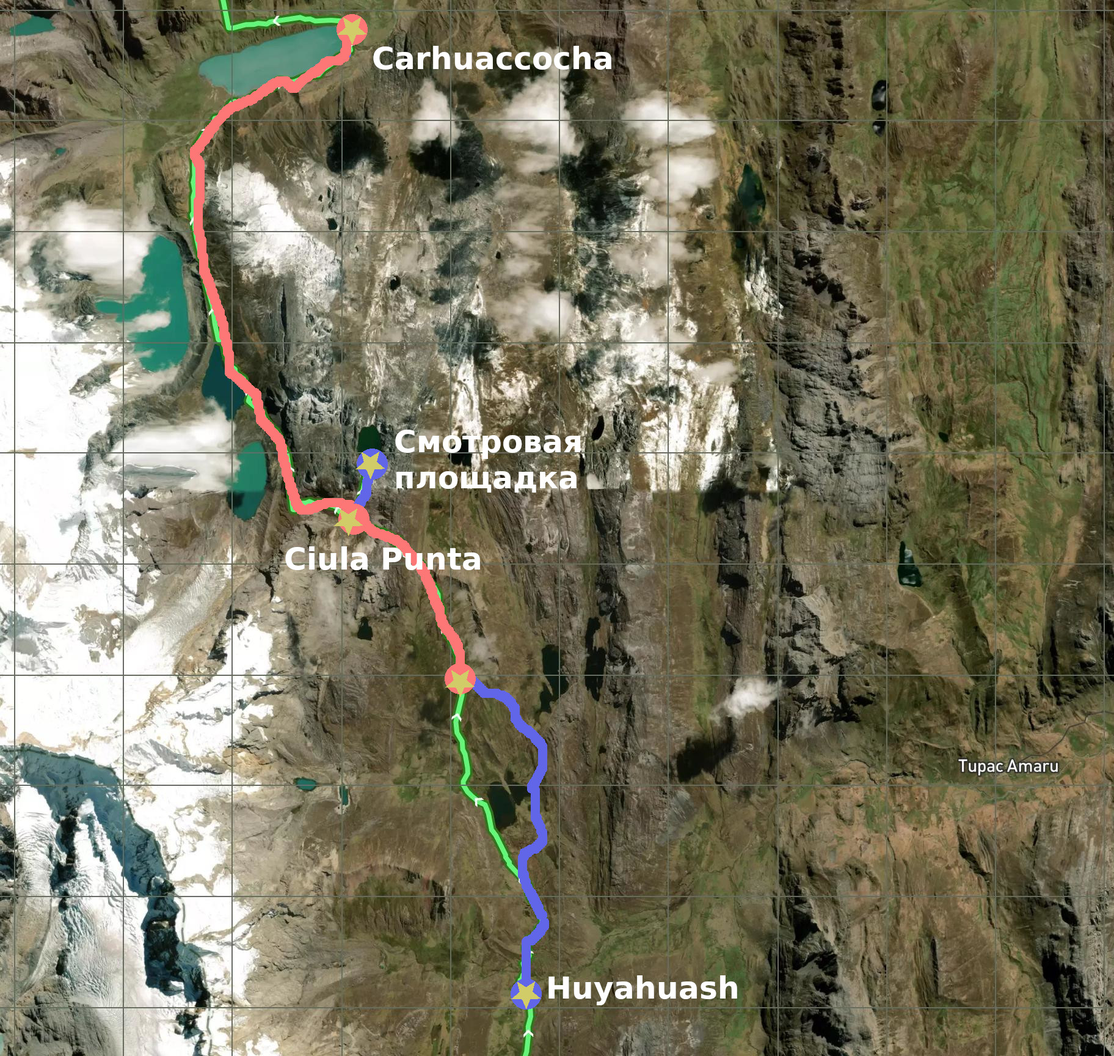
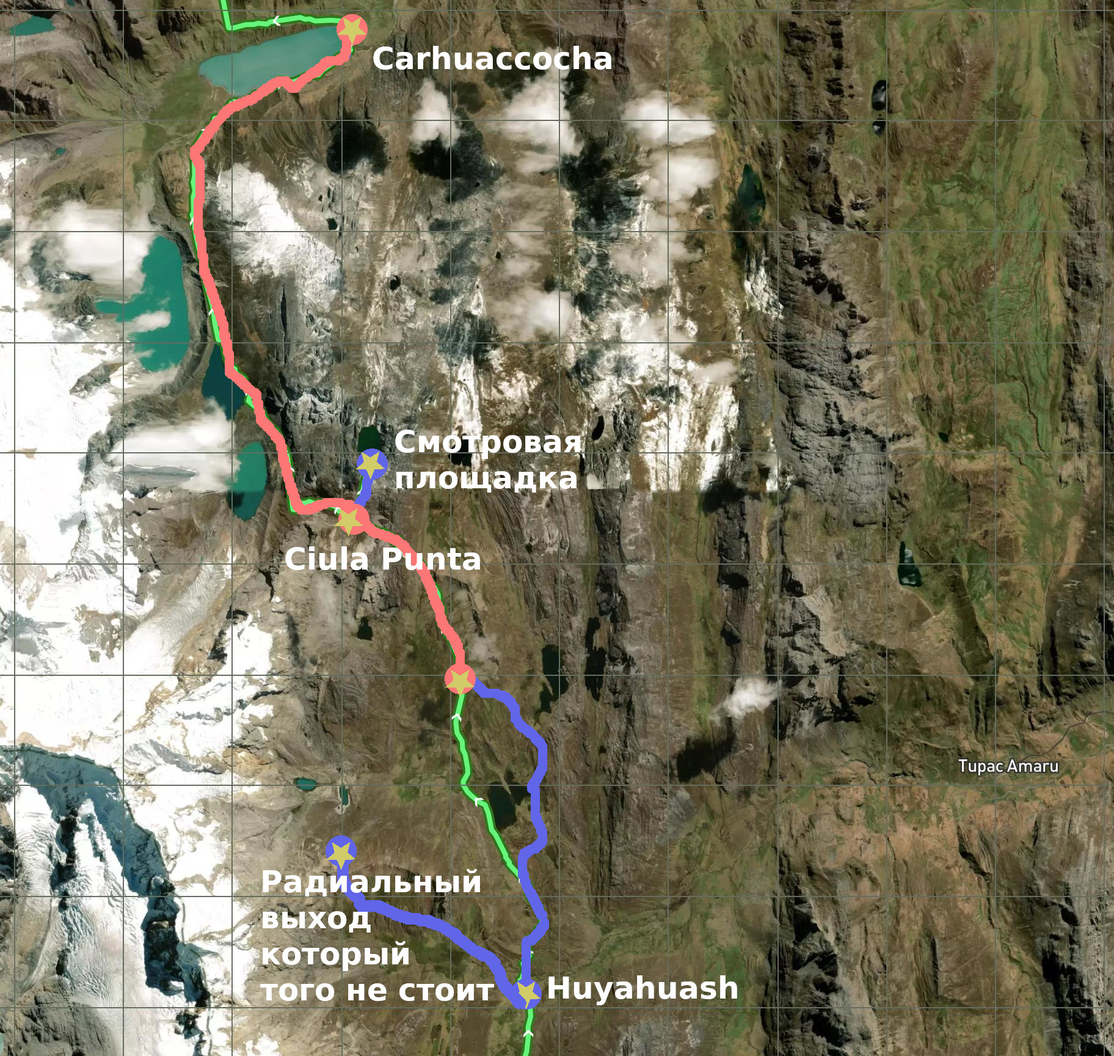
huyahuash done

Changed region(s): [[0.2188, 0.7812, 0.4688, 0.9688]]

diff --git a/_posts/ru/2023-09-01-huyahuash.md b/_posts/ru/2023-09-01-huyahuash.md
@@ -8,19 +8,20 @@ lang: ru
 ref: 2023-09-01-huyahuash
 ---
 
-Итак, мы в Перу и у нас есть ***300$***. Можно купить однодневную экскурсию на Мачу-Пикчу и сделать красивое фото. А можно за тот же ценник сходить в многодневный поход по местах, красота которых на всю жизнь оставит след в вашем сознании. Я уважаю вкусы людей и понимаю тех, кому кровь из носа нужна фотография на фоне живописного города инков. Но если вас тянет к приключениям, вам нравится ходить ногами и хочется получить уникальный опыт пребывания в этой невероятной стране, то эта статья для вас!
+Итак, мы в Перу и у нас есть ***300$***. Что сделать с этими деньгами? Можно купить однодневную экскурсию на Мачу-Пикчу и заиметь красивое фото. А можно за тот же ценник сходить в многодневный поход по местах, красота которых останеться с вами на всю жизнь. Я уважаю вкусы людей и понимаю тех, кому кровь из носа нужна фотография на фоне живописного города инков. Но если вас тянет к приключениям, вам нравится ходить ногами и хочется получить уникальный опыт пребывания в Перу, то эта статья для вас!
 
-Сегодня я расскажу о ***Huyahuash Cordillera***. Это красивейший горный хребет и одноименный хайк, который по-моему мнению, является одним из красивейщих хайков на Земле. Заявка серьезная, но когда вы увидете фото, то все вопросы отпадут. Итак, продолжительность трека варьируется от *8 до 12 дней*, в течение которых преодолевается *135 км* пути и около *12и перевалов*, все это происходит на высоте более *4500 метров* над уровнем моря.
+Сегодня я расскажу о ***Huyahuash Cordillera***. Это красивейший горный хребет и одноименный хайк, который, по-моему мнению, является одним из красивейщих хайков на Земле. Заявка серьезная, но фото по ходу статьи откинут все вопросы. Продолжительность трека варьируется от *8 до 12 дней*, в течение которых преодолевается *135 км* пути и около *12и перевалов*, все это происходит на высоте более *4500 метров* над уровнем моря.
 
-Я планировал совершить этот *11и дневный* поход в одиночку и даже придумал очень пафосное название для будущей статьи. Дележка шкуры неубитого медведя в конечном итоге привела меня... к гиду. Поход я совершил в составе пусть и маленькой, но все же коммерческой группы. Зачем тогда я это пишу, спросите вы? Несмотря на то, что это действительно один из самых красивейших треков в мире, ***вы, скорее всего, о нем ничего не слышали***. 
-В интернете об этом прекрасном месте полно эмоциональных статей на разных мировых языках, но не на русском. Это нужно срочно исправлять!
+Я планировал пройти *11 дней по кардильерам* в одиночку и даже придумал очень пафосное название для будущей статьи. Дележка шкуры неубитого медведя в конечном итоге привела меня... к гиду. Да, поход я совершил в составе пусть и маленькой, но все же коммерческой группы. Зачем тогда я это пишу, спросите вы? *Несмотря на то, что это действительно один из самых красивейших треков в мире,* ***вы, скорее всего, о нем ничего не слышали***. 
+В интернете об этом маршруте полно эмоциональных статей на разных мировых языках, но не на русском. Это нужно срочно исправлять!
 
-Нижу я постараюсь структурированно дать информацию и заразить вас желанием посетить это магической красоты место. <s>И отбить желание смотреть Мачу-Пикчу</s> 
+Нижу я постараюсь структурированно дать информацию и заразить вас желанием посетить это магической красоты место <s>и заодно отбить желание смотреть Мачу-Пикчу</s> 
 
 {% 
   include image.html 
   file="1"  
   ratio="1.33"
+  caption="смотрю на лагуну Jurau c перевала Santa Rosa (5060м)"
 %}
 
 
@@ -31,35 +32,35 @@ ref: 2023-09-01-huyahuash
 
 Вот о чем действительно стоит задуматься, так это о высотной болезни, травмах и физической подготовке. *90 процентов* трека проходит на высоте более *4000 метров*, каждый день необходимо преодолевать перевалы, высота которых может достигать *5000 метров*, и путь до которых может быть достаточно крутым. Если в ваших планах идти без гида, то я ***настоятельно рекомендую*** взять напарника, который в случае травмы или прогрессирующей горной болезни сможет оказать помощь. Никто не застрахован от отека легких и прочих фатальных высотных болячек.  
 
-Также сложность похода в составе коммерческой группы значительно снижена, так как отпадает необходимость в готовке и носке тяжелого рюкзака, который, к слову, за вас будут нести мулы. По моим наблюдениям *90 процентов* туристов составляют коммерческие группы. Если у вас нет опыта многодневных походов, то я очень рекомендую идти с гидом. 
+В случае похода в составе коммерческой группы сложность значительно снижена, так как отпадает необходимость в готовке еды, носке тяжелого рюкзака, который, к слову, за вас будут нести мулы. По моим наблюдениям *90 процентов* туристов составляют коммерческие группы. Если у вас нет опыта многодневных походов, то я ***очень рекомендую*** идти с гидом. 
 
 # Сколько это стоит?
-Зависит от количества дней и количества участников. ***8и дневный поход*** в группе из ***10 человек*** обойдется примерно в <span class="rate" data-sym="PEN" data-value="1200"/>. В стоимость обычно включены услуги мулов, еда, палатка, спальник, повар. Все кроме личного снаряжения, которое я советую привозить с собой, так как в Перу оно дорогое и специализированные магазины довольно трудно найти. 
+Стоимость зависит от количества дней и количества участников. ***8и дневный поход*** в группе из ***10 человек*** обойдется примерно в <span class="rate" data-sym="PEN" data-value="1200"/>. В стоимость обычно включены услуги мулов, еда, палатка, спальник, повар. Все кроме личного снаряжения, которое я советую привозить с собой, так как в Перу оно дорогое и специализированные магазины довольно трудно найти. 
 
 Цена тура обратно пропорциональна количеству человек в группе. В моем случае группа состояла из ***3 человек***, а программа состояла из ***11 дней***, в которые входило альпинистское восхождение на пятитысячник. Это стоило <span class="rate" data-sym="PEN" data-value="2900"/>. 
 
-Скорее всего, в стоимость похода не будет включена плата за проход по национальному парку, которая разделена между местными комьюнити коренных народов и взымается каждый день, когда приходите на ночевку в кемпинг. В общей сложности плата составляет примерно <span class="rate" data-sym="PEN" data-value="220"/>. Эти деньги идут в том числе и на поддержание кемпингов в хорошем состоянии и обеспечение безопасности. В большинстве лагерей имеются фаянсовые туалеты. Непозволительная роскошь! 
+Скорее всего, в стоимость тура не будет включена плата за проход по национальному парку, территория которого поделена между местными комьюнити коренных народов. Плата взымается каждый день, когда приходите на ночевку в кемпинг. В общей сложности плата составляет примерно <span class="rate" data-sym="PEN" data-value="220"/>. Эти деньги идут в том числе и на поддержание чистоты и безопасности. В некоторых лагерях даже имеются фаянсовые туалеты. Сразу видно, за что платим! 
 
 <p class="alert warning" style="font-size: 14px; font-style: italic">
 Я приезжал лично в Huaraz и на месте обсуждал цены, вероятно, они будут отличаться от онлайн предложений. Если удастся найти группу, которая отправляется на следующий день, и от вашего участия цена за тур для других участников остается неизменной, то можете рассчитывать на очень хорошую скидку. Так произошло в моем случае.
 </p>
 
 # Насколько сложно?
-Средней физической подготовки будет достаточно для *8и дневного тура* с гидом при грамотной акклиматизации. А именно, нужно пару дней побыть в *Huaraz* и сходить в однодневний тур к какой-нибудь высокогорной лагуне. В случае проблем со здоровьем во время похода вас посадят на мула или коня и в течения 3 часов спустят до ближайщего поселка, поэтому насчет этого переживать не стоит.
+Средней физической подготовки будет достаточно для *8и дневного тура* с гидом при грамотной акклиматизации, а именно, нужно пару дней побыть в *Huaraz* и сходить в однодневний тур к какой-нибудь высокогорной лагуне. Но сильно переживать не стоит. Во время похода, в случае проблем со здоровьем, вас посадят на какое-нибудь животное и со скоростью света (плюс минус 3 часа) спустят до ближайщего поселка.
 
-В случае одиночного восхождения обязательна очень хорошая физическая подготовка и опыт нахождения в высокогорье. 
+В случае одиночного восхождения обязательна великолепная физическая подготовка и опыт нахождения в высокогорье, то есть, в отличии от тура, это подходит далеко не для каждого.  
 
 # Когда идти, какая погода
 Сезон длится с ***мая по сентябрь***. Мой поход проходил в середине июля, когда погода была максимально ясная и безоблачная, а количество осадков минимально. В другие месяцы, судя по форумам, есть вероятность попасть в непогоду, особенно это справедливо для начала и конца сезона. 
 
 По моему опыту по-настоящему прохладными были только утро и вечер, когда солнце либо скрылось, либо только начинало выходить из-за горизонта и плавить накопившийся за ночь иний.
 
-Взможно, мне повезло с погодой, но всегда я чувствовал себя комфортно в термоббелье и дешевых флисовых штанах и рубашке. Мембранный слой я почти не доставал. Другие ребята (мексиканец и испанка) воспринимали холод острее и надевали на себя все, что у них имелось. В целом, если идете с коммерческой группой, то нужды в высокотехнологичной (дорогой и легкой) одежде нет. Мулам все равно, несут ли они новенькие mammut'ы или китайские штаны из декатлона. Но здесь я могу ошибаться и лучше проконсультироваться с гидами. Вот о чем я точно советую позаботиться, так это о хороших треккинговых ботинках. На них ***экономить не стоит!***
+Взможно, мне повезло с погодой, но большую часть времени я чувствовал себя комфортно в термоббелье и дешевых флисовых штанах и рубашке. Мембранный слой я досталавл только пару раз. Другие ребята (мексиканец и испанка) воспринимали холод острее и надевали на себя все, что у них имелось. В целом, если идете с коммерческой группой, то нужды в высокотехнологичной (дорогой и легкой) одежде нет. Мулам все равно, несут они новенькие mammut'ы или китайские штаны из декатлона. Насчет погоды я могу ошибаться и лучше проконсультироваться с гидами. Вот о чем я точно советую позаботиться, так это о хороших треккинговых ботинках. На них ***экономить не стоит!***
 
 # *Huaraz* и акклиматизация
 Ближайщим крупным городом на пути в *Huyahuash* является *Huaraz*. Сам город и его окрестности без преувеличения являются настоящей меккой для людей, любящих походы и активный отдых. В округе множество маршрутов на любой вкус: [однодневные выходы](https://travelmademedoit.com/laguna-radian-mullaca-carhuac-ahuac-four-lagunas-trek-huaraz/) к горным лагунам, *3-4 дневные походы* в *Cardillera Blanca* или, как в нашем случае, 11 дневный *Huyahuash*! 
 
-Я советую приезжать в город за несколько дней до начала похода, чтобы ваш организм начал привыкать к высоте. *Huaraz* расположен на высоте 3000. Также я настоятельно рекомендую сходить в однодневный поход к одному из множеств лагун. Я очень рекомендую [4 lagunas trek](https://travelmademedoit.com/laguna-radian-mullaca-carhuac-ahuac-four-lagunas-trek-huaraz/), он правда очень изнурительный и может отбить всякое желание других походов. Но зато он невероятно красивый. [Здесь](https://www.alltrails.com/explore/recording/evening-hike-at-laguna-mullaca-a600bd1?p=-1&sh=qe1tfy) можно посмотрить мои логи. Гораздо менее изнурительной альтернативой является очень популярный *[Lagoon 69](https://travelmademedoit.com/laguna-69-peru/)*. Даже не спрашивайте меня, откуда такое название!
+Я советую приезжать в город за несколько дней до начала похода, чтобы ваш организм начал привыкать к высоте, ведь *Huaraz* расположен на высоте *3000*. Также я настоятельно рекомендую сходить в однодневный поход к одному из множеств лагун. Я очень рекомендую [***4 lagunas trek***](https://travelmademedoit.com/laguna-radian-mullaca-carhuac-ahuac-four-lagunas-trek-huaraz/), он правда очень изнурительный и может отбить желание не только идти в другой поход, но и вообще двигаться. Зато он красивый и если вы его пройдете, то ***Huyahuash*** уж точно будет по плечу! [Здесь](https://www.alltrails.com/explore/recording/evening-hike-at-laguna-mullaca-a600bd1?p=-1&sh=qe1tfy) можно посмотрить мои логи. Гораздо менее изнурительной альтернативой является очень популярный ***[Lagoon 69](https://travelmademedoit.com/laguna-69-peru/)***. Даже не спрашивайте, откуда такое название!
 
 {% 
   include image.html 
@@ -74,14 +75,16 @@ ref: 2023-09-01-huyahuash
 Ну ладно, хватит про подготовку, переходим к десерту, а именно самомму походу
 
 # Обозначения
-Ниже я по дням описываю трек, прилагая колометраж, набор высоты, а также ключевые названия перевалов, кемпингов. В дополнение к этому я прилагаю ссылку на фото с картой. За основу я взял [этот трек из AllTrails](https://www.alltrails.com/en-gb/trail/peru/ancash/cordillera-huayhuash?p=56258220&sh=qe1tfy) (ссылка, возможно, работает только с vpn). На карте зеленым цветом размечен трек AllTrails, синим обозначены радиальные выходы или мой маршрут, если он отличался. Все это для того, чтобы вы могли лучше ориентироваться. 
+Ниже я по дням описываю трек, прилагая колометраж, набор высоты, а также ключевые названия перевалов, кемпингов. В дополнение к этому я прилагаю ссылки на фото с картами. За основу я взял [эту карту из AllTrails](https://www.alltrails.com/en-gb/trail/peru/ancash/cordillera-huayhuash?p=56258220&sh=qe1tfy) (ссылка, возможно, работает только с vpn). На моих картах зеленым цветом размечен трек AllTrails, красным обозначен мой маршрут, синим обозначены радиальные выходы или часть маршрута, которая отличается от AllTrails. Надеюсь, это поможет ориентироваться. 
 
 <br/>
 
 # День 1: Из *Huaraz* в *Quartelhuain* 
-Если вы купили тур, то на транспорте ваc довезут прямо до стартовой точки, лагеря *Quartelhuain*, весь путь до которого займет около 5 часов от *Huaraz*. Ни о чем волноваться не нужно. 
+В составе тура вас на транспорте довезут прямо до стартовой точки, лагеря *Quartelhuain*, весь путь до которого займет около 5 часов от *Huaraz*. Ни о чем волноваться не нужно. 
 
 Если едете без гида, то сначала покупаем билет до *Chiquian* на автобусную станции [*Transporte El Rapido*](https://www.google.com/maps/place/Transportes+El+Rapido/@-9.530537,-77.5347065,17z/data=!3m1!4b1!4m6!3m5!1s0x91a90d10a16b6897:0x62d756f6e26f3514!8m2!3d-9.5305423!4d-77.5321316!16s%2Fg%2F11byv8vrpc?entry=ttu). в *Сhiquian* берем автобус до *Pocpa* в [Turismo Nazario](https://www.google.com/maps/place/Transportes+Nazario/@-10.1524544,-77.1652559,16z/data=!4m10!1m2!2m1!1sTurismo+Nazario+Chiquian!3m6!1s0x91a83371995d265f:0xdb3cc8bb4b4eed0a!8m2!3d-10.1524527!4d-77.1572216!15sChhUdXJpc21vIE5hemFyaW8gQ2hpcXVpYW6SAQ10cmF2ZWxfYWdlbmN54AEA!16s%2Fg%2F11t7fgyzyv?entry=ttu). Из [*Pocpa*](https://www.google.com/maps/place/Case+Pocpa,+Peru/@-10.1942503,-77.0074059,17z/data=!3m1!4b1!4m10!1m2!2m1!1spocpa!3m6!1s0x91a8255b89f22aab:0x6a2d67041c95a770!8m2!3d-10.1939785!4d-77.0028263!15sCgVwb2NwYZIBDHN1YmxvY2FsaXR5MeABAA!16s%2Fg%2F11h7249ct_?entry=ttu) 10км пешком до лагеря *Quartelhuain*. Большая часть пути будет проходить по автомобильной неасфальтированной дороге, по дороге можно поймать попутку и за небольшую сумму доехать до лагеря. 
+
+Почти все проходят данный трек по ***часовой стрелке***, а именно от *Quartelhuain* до *Pocpa*. 
 
 <div class="container-images">
 <div class="desktop">
@@ -127,7 +130,7 @@ ref: 2023-09-01-huyahuash
 
 <br/>
 
-# День 2: Из *Quartelhuain* в *Janca*
+# День 2: *Janca*
 **Дистанция**: 8км + 2км (радиальный выход к *Laguna Mitachocha*)
 
 **Набор высоты**: 481м
@@ -143,7 +146,7 @@ ref: 2023-09-01-huyahuash
 С самого начала достаточно резкий подьем до перевала *Cacanapunta (4700)*, затем следует плавный спуск до лагеря *Janca*. В физическом плане хайк 
 нетрудный и служит отличной разминкой перед будущими более изнурительными маршрутами. 
 
-Коммерческие группы останавливаются в *20-30* минутах ходьбы от самой лагуны *Mitococha*, а к ней совершают радиальный выход. Я советую обогнуть лагуну и пойти дальше, к лагуне *Ninacocha* (см. [карту](/assets/static/huyahuash/1.jpg), виделено синим). Это еще минут *20 ходьбы*, которые того стоят. Ниже два фото лагун, обратите внимание, насколько они разные! 
+Коммерческие группы останавливаются в *20-30* минутах ходьбы от самой лагуны *Mitococha*, а к ней совершают радиальный выход. Я советую обогнуть лагуну и пойти дальше, к лагуне *Ninacocha* (см. [карту](/assets/static/huyahuash/1.jpg), выделено синим). Это еще минут *30 ходьбы*, которые того стоят. Ниже приведены фото лагун, обратите внимание, насколько они разные! 
 
 <div class="container-images">
 <div class="desktop">
@@ -179,7 +182,7 @@ ref: 2023-09-01-huyahuash
 
 <br/>
 
-# День 3: Лагерь *Carhuacocha*
+# День 3: *Carhuacocha*
 
 
 **Дистанция**: 9.7км (+ 2км мой маршрут)
@@ -238,7 +241,7 @@ ref: 2023-09-01-huyahuash
 
 <br/>
 
-# День 4: до *Campamento Hayahaush*
+# День 4: *Campamento Hayahaush*
 
 **Дистанция**: 14.4км
 
@@ -252,7 +255,7 @@ ref: 2023-09-01-huyahuash
 
 **Карта**: [ссылка](/assets/static/huyahuash/3.jpg)
 
-Этот день будет изнурительным в физическом плане, так как предстоит набрать 646м высоты. Однако он является и одним из красивейших, так как по пути мы 3 красивейшие лагуны, аккуратно расположенные одна за другой, затем начинается резкий подьем до смотровой точки, и вот все 3 лагуны видны как на ладони. 
+Этот день будет изнурительным в физическом плане, так как предстоит набрать 646м высоты. Однако он является одним из красивейших, так как по пути мы посетим 3 лагуны, на которые откроется великолепный вид немного позже, после резкого подьема. 
 
 {% 
   include image.html 
@@ -260,7 +263,7 @@ ref: 2023-09-01-huyahuash
   caption="вид на 3 лагуны" 
 %}
 
-затем следует резкий подьем до перевала *Paso Ciula*, там я советую отойти на 200-300 метров в сторону (см [карту](/assets/static/huyahuash/3.jpg)) к следующей сотровой точке, откуда вид на еще одну лагуну. 
+Затем следует другой резкий подьем до перевала *Paso Ciula*, там я советую отойти на 200-300 метров в сторону до смотровой площадки (см [карту](/assets/static/huyahuash/3.jpg)), где можно увидеть еще одну лагуну. Да, слово лагуна в этой статье вам встретиться ни раз!
 
 {% 
   include image.html 
@@ -271,7 +274,7 @@ ref: 2023-09-01-huyahuash
 {% 
   include image.html 
   file="19" 
-  caption="недалеко от перевала Paso Ciula" 
+  caption="вид со смотровой точки, 200 метров вдоль перевала Paso Ciula" 
 %}
 
 После перевала последует плавный спуск к лагерю *Campamento Hayahaush*, который из-за своего географического положения является самым холодным, так что приготовьтесь!
@@ -279,7 +282,9 @@ ref: 2023-09-01-huyahuash
 У меня еще оставались силы, и я решил совершить радиальный выход на высокий холм недалеко от нашего лагеря в надежде, что с него откроется потрясающий вид (см [карту](/assets/static/huyahuash/3.jpg)), которого там не оказалось, поэтому повторять мой маршрут не советую!
 
 # Развилка
-Дальше начинается развилка. Можно пойти класическим путем и достигнуть *Aguas Termales Viconga*. Это отличный вариант, чтобы отдохнуть с бутылочкой пива в горячих источниках и созвониться с близкими по видеосвязи (интернет там платный, но хороший). Однако этот путь увеличивает длительность трека на 2дня, а также есть вероятность встретить туристов, совершаюших сюда однодневные экскурсии. Мы имели неудачу приехуть туда в местные национальные праздники, то есть людей было много.  
+Дальше начинается развилка. 
+
+Можно пойти ***класическим*** путем и достигнуть *Aguas Termales Viconga*. Это отличный вариант, чтобы отдохнуть с бутылочкой пива в горячих источниках и созвониться с близкими по видеосвязи (интернет там платный, но хороший). Однако этот путь увеличивает длительность трека на 2дня, а также есть вероятность встретить туристов, совершающих сюда однодневные экскурсии. Мы имели неудачу прийти во время местных национальных праздников, то есть людей было много.  
 
 {% 
   include image.html 
@@ -287,13 +292,13 @@ ref: 2023-09-01-huyahuash
   caption="Aguas Termales Viconga на фоне туристов"
 %}
 
-Есть альтернативный путь, который набирает популярность. Он проходит через перевал *Paso del Trapecio*. Он живописен и занимает на один день меньше времени. Если у нет желания соприкасаться с цивилизацией, то это отличный вариант. 
+Еще есть ***альтернативный путь***, который набирает популярность. Он проходит через перевал *Paso del Trapecio*. Он живописен и занимает на один день меньше времени (см [карту](/assets/static/huyahuash/4.jpg)). Если нет желания соприкасаться с цивилизацией, то это отличный вариант. 
 
 Эти ***два маршрута взаимоисключающие***. Либо одно, либо другое. Однако ребята в моей группе были заряженные и полны сил, поэтому мы решили и рыбку сьесть, и ... сами понимаете. Сначала мы пошли до горячих источников и там заночевали.
 
 <br/>
 
-# День 5: до Горячих источников
+# День 5: *Aguas Termales Viconga*
 **Дистанция**: 11км
 
 **Набор высоты**: 410м
@@ -318,7 +323,7 @@ ref: 2023-09-01-huyahuash
 
 <br/>
 
-# День 7: до *Campamento Elefante*
+# День 7: *Campamento Elefante*
 
 **Дистанция**: 7.2км (+ 3-4 км радиалка до лагуны *Hunacpataycocha* )
 
@@ -332,7 +337,7 @@ ref: 2023-09-01-huyahuash
 
 **Карта**: [ссылка](/assets/static/huyahuash/5.jpg)
 
-Cначала монотонно поднимаемся до *Paso Punta Cuyoc*, где с перевала откроется невероятный вид в том числе на базовый лагерь *Campamento Elefante*, к которому предстает долгий спуск вниз. 
+Cначала монотонно поднимаемся до перевала *Paso Punta Cuyoc*, с которого открывается невероятный вид. Затем следует спуск вниз до *Campamento Elefante*.  
 
 <div class="container-images">
 <div class="desktop">
@@ -364,9 +369,9 @@ Cначала монотонно поднимаемся до *Paso Punta Cuyoc*,
 </div>
 </div>
 
-Из-за собственной лени, чтобы не сбрасывать высоту и не набирать высоты, во время спуска мы радиально ушли вправо (см [карту](/assets/static/huyahuash/5.jpg)), чтобы посмотреть главную достопримечательность второго, альтернативного пути, ***лагуну Hunacpataycocha*** (чтобы и рыбку сьесть). 
+Из-за собственной лени, чтобы не сбрасывать и не набирать высоты, во время спуска мы ушли вправо (см [карту](/assets/static/huyahuash/5.jpg)), чтобы посмотреть главную достопримечательность второго, альтернативного пути, ***лагуну Hunacpataycocha*** (чтобы и рыбку сьесть). 
 
-Это было не самым правильным решением, потому что мы пробирались через огромные завалы камней вдоль отвесно стоящей скалы, с которой эти камни прилетели. В середине дня, когда солнце наиболее сильное, эта была плохая и небезопасная идея. Я не советую этот путь и рекумендую спуститься до лагеря и затем по проторенной дороге подняться до лагуны.
+Это было не самым правильным решением, потому что нам пришлось пробираться через огромные завалы камней вдоль отвесно стоящей скалы, с которой эти камни когда-то прилетели. В середине дня, в разгар солнца, такой проход был плохой и небезопасной идеей. Я не советую этот путь и рекомендую спуститься до лагеря и затем по проторенной дороге подняться до лагуны.
 
 {% 
   include image.html 
@@ -376,7 +381,7 @@ Cначала монотонно поднимаемся до *Paso Punta Cuyoc*,
 
 <br/>
 
-# День 8: до деревни *Huayllapa* через *Santa Rosa Pass*
+# День 8: перевал *Santa Rosa Pass*
 
 **Дистанция**: 16.8км 
 
@@ -428,7 +433,7 @@ Cначала монотонно поднимаемся до *Paso Punta Cuyoc*,
 Изначально наш план был провести ночь недалеко от лагуны, но мы решили направиться прямиком в деревню *Huayllapa*, чтобы у нас имелся один день отдыха перед альпинистским восхожденим на *Diablo Mudo (5350м)*.
 
 # День 9: деревня *Huayllapa*.
-Место очень колориритное и чем-то напомнило мне аулы на юге нашей страны. Здесь имеются как места для кемпинга, так и хостелы с горячим душем. Также есть магазинчик с продуктами, где можно пополнить запасы еды. Поэтому если вы идете без гида, то можно облегчить себе ношу, взяв запас еды до деревни (*5-8 дней* в зависимости от маршрута) и тут его пополнив.  
+Место очень колориритное и чем-то напомнило мне аулы на юге нашей страны. Здесь имеются как места для кемпинга, так и хостелы с горячим душем. Также есть магазинчик с продуктами, где можно пополнить запасы еды. Поэтому если вы идете без гида, то можно облегчить себе ношу, взяв запас еды до деревни (*5-7 дней* в зависимости от маршрута) и тут его пополнив.  
 
 {% 
   include image.html 
@@ -438,7 +443,7 @@ Cначала монотонно поднимаемся до *Paso Punta Cuyoc*,
 
 <br/>
 
-# День 10: до *Cashpapampa*
+# День 10: *Cashpapampa*
 
 **Дистанция**: 10.8км
 
@@ -502,7 +507,7 @@ Cначала монотонно поднимаемся до *Paso Punta Cuyoc*,
 
 **Карта**: [ссылка](/assets/static/huyahuash/8.jpg)
 
-Я выше упомянул, что моя программа была необычной и включала восхождение на пятитысячник. Этим пятитысячником является гора с дьявольским названием *Diablo Mudo*. Несмотря на название, технически она достаточно проста для восхождения. Подьем в *3 часа* ночи, выход в *4*. К *8 часам* мы достигли вершины, затем последовал спуск в следующий лагерь *Susococha*, который, к моему удивлению, оказался очень живописным.
+Я выше упомянул, что моя программа была необычной и включала восхождение на пятитысячник. Этим пятитысячником является гора с дьявольским названием *Diablo Mudo*. Несмотря на название, технически она достаточно проста для восхождения. Подьем в *3 часа* ночи, выход в *4*. К *8 часам* мы достигли вершины, затем последовал спуск в следующий лагерь *Jahuacocha*, который, к моему удивлению, оказался очень живописным. Лог моего восхождения можно посомтреть [тут](https://www.alltrails.com/explore/recording/morning-hike-fec87a3-31?p=-1&sh=qe1tfy). 
 
 <p class="alert warning" style="font-size: 14px; font-style: italic">
 Не совершайте моих ошибок и не арендуйте альпинистские кефлачи, для восхождения достаточно кошек, надетых на трекинговые ботинки.  
@@ -521,11 +526,11 @@ Cначала монотонно поднимаемся до *Paso Punta Cuyoc*,
   caption="другая группа поднимается на вершину" 
 %}
 
-От базового лагеря, если есть силы, я советую совершить радиальный выход к другой лагуне за озером (смотрим [карту](/assets/static/huyahuash/8.jpg)). По дороге вы увидете какие-то заброшенные каменные поселения и много вискач, местных милых животных. Весь хайк у меня не занял больше чем полтора часа.
+От базового лагеря, если есть силы, я советую совершить радиальный выход к другой лагуне *Solterachocha* за озером (смотрим [карту](/assets/static/huyahuash/8.jpg)). По дороге вы увидете какие-то заброшенные каменные поселения и много вискач, местных милых животных. Весь хайк у меня занял не больше чем полтора часа.
 
 <br/>
 
-# День 12: до деревни *Pocpa*
+# День 12: возвращение в *Pocpa*
 **Дистанция**: 10км
 
 **Набор высоты**: 0м
@@ -534,7 +539,9 @@ Cначала монотонно поднимаемся до *Paso Punta Cuyoc*,
 
 **Карта**: [ссылка](/assets/static/huyahuash/9.jpg)
 
-Монотонный спуск вдоль реки к финальной точке, деревне *Pocpa*. Да красиво, но уже не впечатляет. По правде говоря, к этому моменту вас уже мало что сможет удивить, вам остается сохранить эти великолепные воспоминания и пронести их до конца своей надеюсь счастливой жизни! :)
+Монотонный спуск вдоль реки к финальной точке, деревне *Pocpa*. Да красиво, но уже не впечатляет. По правде говоря, к этому моменту вас уже мало что сможет удивить, вам остается сохранить эти великолепные воспоминания и пронести их до конца своей надеюсь счастливой жизни!
+
+Внизу прикрепляю фото лагун *Jahuacocha* и *Solterachocha* 
 
 <div class="container-images">
 <div class="desktop">
@@ -571,11 +578,11 @@ Cначала монотонно поднимаемся до *Paso Punta Cuyoc*,
 <br/>
 
 # Что берем с собой
-Список разнится в зависимости от того, идете ли вы с гидом или без. Часть жкипировки 
-предоставляет туристическая компания. Так как вещи несут мулы, то не нужно волноваться насчет веса. Можно взять вещи, которые былобы непозволительно взять в одиночный поход из-за критического веса, например, летающий дрон с камерой.  
+Список разнится в зависимости от того, идете ли вы с гидом или без. Часть экипировки 
+предоставляет туристическая компания. Так как вещи несут мулы, то не нужно волноваться насчет веса. Можно взять вещи, которые было бы непозволительно взять в одиночный поход из-за критического веса, например, летающий дрон с камерой.  
 
 ### Экипировка 
-***50-70L рюкзак*** -  рюкзак должен быть хорошим, если идете в одиночку, желательно еще иметь ремкомплект с собой (иголки и нитки). Если идете с гидом, то качество рюкзака неважно. 
+***50-70L рюкзак*** -  рюкзак должен быть хорошим, если идете в одиночку, то желательно еще иметь ремкомплект с собой (иголки и нитки). Если идете с гидом, то качество рюкзака неважно. 
 
 ***Дождевик*** - в сезон осадки редки, но при себе иметь стоит
 
@@ -584,7 +591,8 @@ Cначала монотонно поднимаемся до *Paso Punta Cuyoc*,
 ***Палки трекинговые*** - очень рекомендую, бережет силы и здоровье суставов
 
 ***Палатка*** - гиды предоставляют, но притащил свою [Red Fox Trekking 4](https://market.yandex.ru/product--palatka-redfox-trekking-fox-4/1756122049?sku=101770520452&offerid=AJizgMy9S8PRQvspwnDWdg&hid=91519&nid=18072109&cpa=1&utm_medium=sharing&uniqueId=938739)
-*Каремат*
+
+***Каремат***
 
 ***Спальник*** - минимум -10, советую -15, гиды предоставляют. 
 
@@ -606,7 +614,7 @@ Cначала монотонно поднимаемся до *Paso Punta Cuyoc*,
 
 ***Мембранная куртка и штаны*** - мне не понадобились, но лучше взять
 
-***Носки*** - 3 штуки тонких, треккинговых, одна пара шерстяных для палатки
+***Носки*** - 3 пары тонких, треккинговых, одна пара шерстяных для палатки
 
 ***Купальный костюм*** - для горячих источников
 
@@ -614,7 +622,7 @@ Cначала монотонно поднимаемся до *Paso Punta Cuyoc*,
 
 ***Флисовые перчатки и шапка***
 
-***Ботинки*** - для хайкинга высокие средней жесткости. Сильно жесткую обувь брать не стоит, если у вас нет проблем со связками. Весь путь проходит по проторенным дорогам. Я дал шанс [Jack Wolfskin](https://www.amazon.com/Jack-Wolfskin-4056381-Backpacking-Black/dp/B0B257X47L/ref=sr_1_157?adgrpid=83096942778&hvadid=585412620697&hvdev=c&hvlocphy=1000037&hvnetw=g&hvqmt=e&hvrand=964176708822179551&hvtargid=kwd-296385344346&hydadcr=22341_13333117&keywords=jack+wolfskin+shoes&qid=1699807730&sr=8-157) и остался доволен.   
+***Ботинки*** - для хайкинга высокие средней жесткости. Сильно жесткую обувь брать не стоит, если у вас нет проблем со связками. Весь путь проходит по проторенным дорогам. На мне были [Jack Wolfskin](https://www.amazon.com/Jack-Wolfskin-4056381-Backpacking-Black/dp/B0B257X47L/ref=sr_1_157?adgrpid=83096942778&hvadid=585412620697&hvdev=c&hvlocphy=1000037&hvnetw=g&hvqmt=e&hvrand=964176708822179551&hvtargid=kwd-296385344346&hydadcr=22341_13333117&keywords=jack+wolfskin+shoes&qid=1699807730&sr=8-157), и я остался доволен.   
 
 ***Сандали или тапочки для кемпинга*** - чтобы ноги отдыхали после похода
 
@@ -641,11 +649,11 @@ Cначала монотонно поднимаемся до *Paso Punta Cuyoc*,
 ***Наличность*** - <span class="rate" data-sym="PEN" data-value="250"/> за проход по национальному парку и бутылочку пива на горячих источниках
 
 # Полезные ссылки и источники
-[***Hostal Universal Huaraz***](https://www.google.com/maps/place/Hostal+Universal+Huaraz/@-9.5251745,-77.5321143,16.96z/data=!4m20!1m8!3m7!1s0x91a90d0e2fd69969:0x89950cf26668d6be!2sHuaraz,+Peru!3b1!8m2!3d-9.5261154!4d-77.5287792!16zL20vMDU5dnAx!3m10!1s0x91a90d1232f78d7d:0x480eeed89fb648ea!5m2!4m1!1i2!8m2!3d-9.5245118!4d-77.5303371!9m1!1b1!16s%2Fg%2F11b745thqx?entry=ttu) - отличный отель с очень приятными хозяевами, которые без дополнительных плат позволили мне совершить очень ранний check in и оставить вещи на время моего похода. Я все-таки оставил им хорошие чаевые в качестве благодарности
+[***Hostal Universal Huaraz***](https://www.google.com/maps/place/Hostal+Universal+Huaraz/@-9.5251745,-77.5321143,16.96z/data=!4m20!1m8!3m7!1s0x91a90d0e2fd69969:0x89950cf26668d6be!2sHuaraz,+Peru!3b1!8m2!3d-9.5261154!4d-77.5287792!16zL20vMDU5dnAx!3m10!1s0x91a90d1232f78d7d:0x480eeed89fb648ea!5m2!4m1!1i2!8m2!3d-9.5245118!4d-77.5303371!9m1!1b1!16s%2Fg%2F11b745thqx?entry=ttu) - отличный отель с очень приятными хозяевами, которые без дополнительных плат позволили мне совершить очень ранний check in и оставить вещи на время моего похода.
 
-[***Williams Expedition***](https://www.google.com/maps/place/Trekking,+Climbing,+Tours+Huaraz+-+Williams+Expedition/@-9.5265034,-77.5290147,19.96z/data=!3m1!5s0x91a90d11eb68ca27:0x160d0bfcbffbcf30!4m14!1m7!3m6!1s0x91a90dcb0401c2e1:0x7cc32509abe98025!2sTrekking,+Climbing,+Tours+Huaraz+-+Williams+Expedition!8m2!3d-9.5264345!4d-77.5288492!16s%2Fg%2F11h63nngxp!3m5!1s0x91a90dcb0401c2e1:0x7cc32509abe98025!8m2!3d-9.5264345!4d-77.5288492!16s%2Fg%2F11h63nngxp?entry=ttu) - я ходил в поход с этой компанией. Отличное место не только для покупки тура, но и для аренды снаряжения и покупки дешевого газа. Хозяин очень приятный в общении, продал мне два баллона газа и разрешил вернуть второй, если я им не воспользуюсь. 
+[***Williams Expedition***](https://www.google.com/maps/place/Trekking,+Climbing,+Tours+Huaraz+-+Williams+Expedition/@-9.5265034,-77.5290147,19.96z/data=!3m1!5s0x91a90d11eb68ca27:0x160d0bfcbffbcf30!4m14!1m7!3m6!1s0x91a90dcb0401c2e1:0x7cc32509abe98025!2sTrekking,+Climbing,+Tours+Huaraz+-+Williams+Expedition!8m2!3d-9.5264345!4d-77.5288492!16s%2Fg%2F11h63nngxp!3m5!1s0x91a90dcb0401c2e1:0x7cc32509abe98025!8m2!3d-9.5264345!4d-77.5288492!16s%2Fg%2F11h63nngxp?entry=ttu) - ходил в поход с этой компанией. Отличное место не только для покупки тура, но и для аренды снаряжения и покупки дешевого газа. Хозяин очень приятный в общении, продал мне два баллона газа и разрешил вернуть второй, если я им не воспользуюсь. 
 
-[***brookebeyond.com***](https://brookebeyond.com/the-ultimate-guide-to-independent-solo-hiking-the-huayhuash-circuit-in-peru) - пожалую, самый полный гайд, его я использовал при планировании моего маршрута.
+[***brookebeyond.com***](https://brookebeyond.com/the-ultimate-guide-to-independent-solo-hiking-the-huayhuash-circuit-in-peru) - пожалуй, самый полный гайд, его я использовал при планировании моего маршрута.
 
 [***kenziearoundtheworld.com***](https://kenziearoundtheworld.com/hiking-cordillera-huayhuash-circuit-9-day-trek-without-a-guide/) - еще один хороший гайд, написанный ребятами, у которых совсем не было опыта многодневных походов.
 
